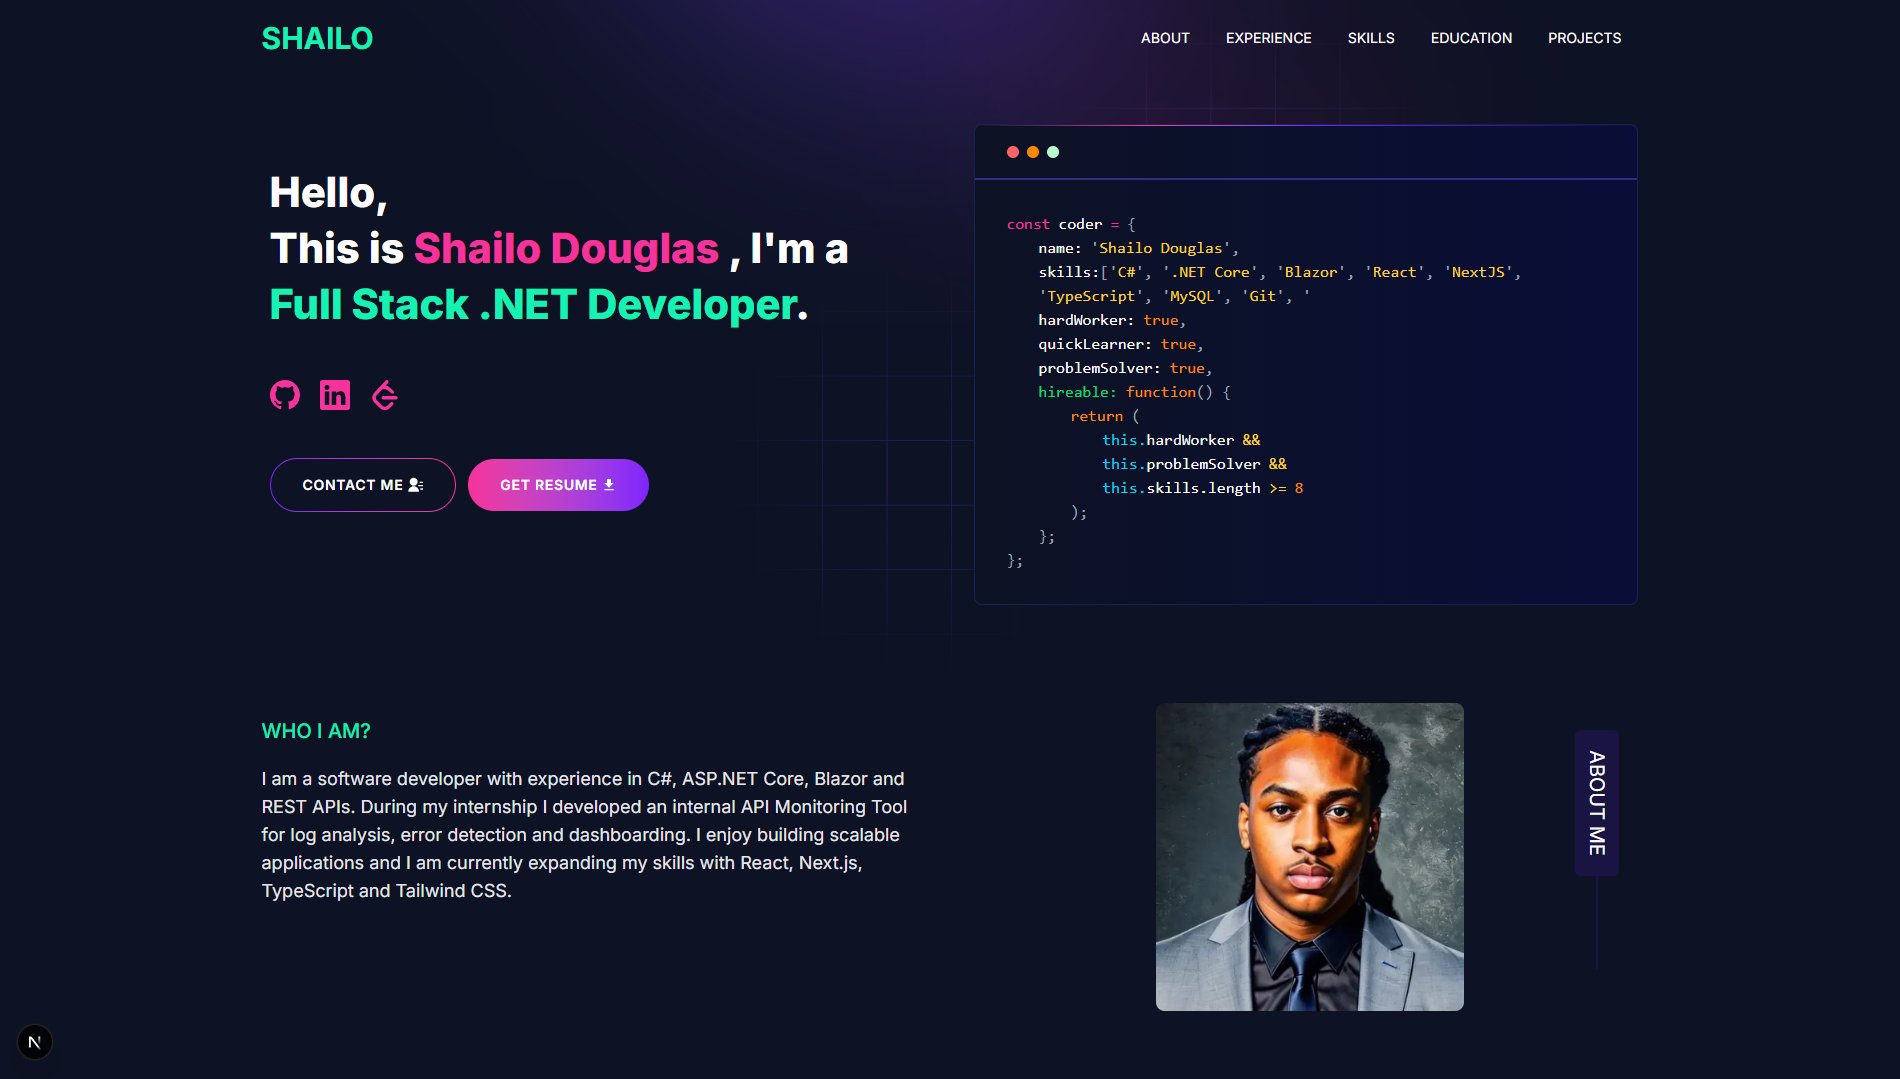
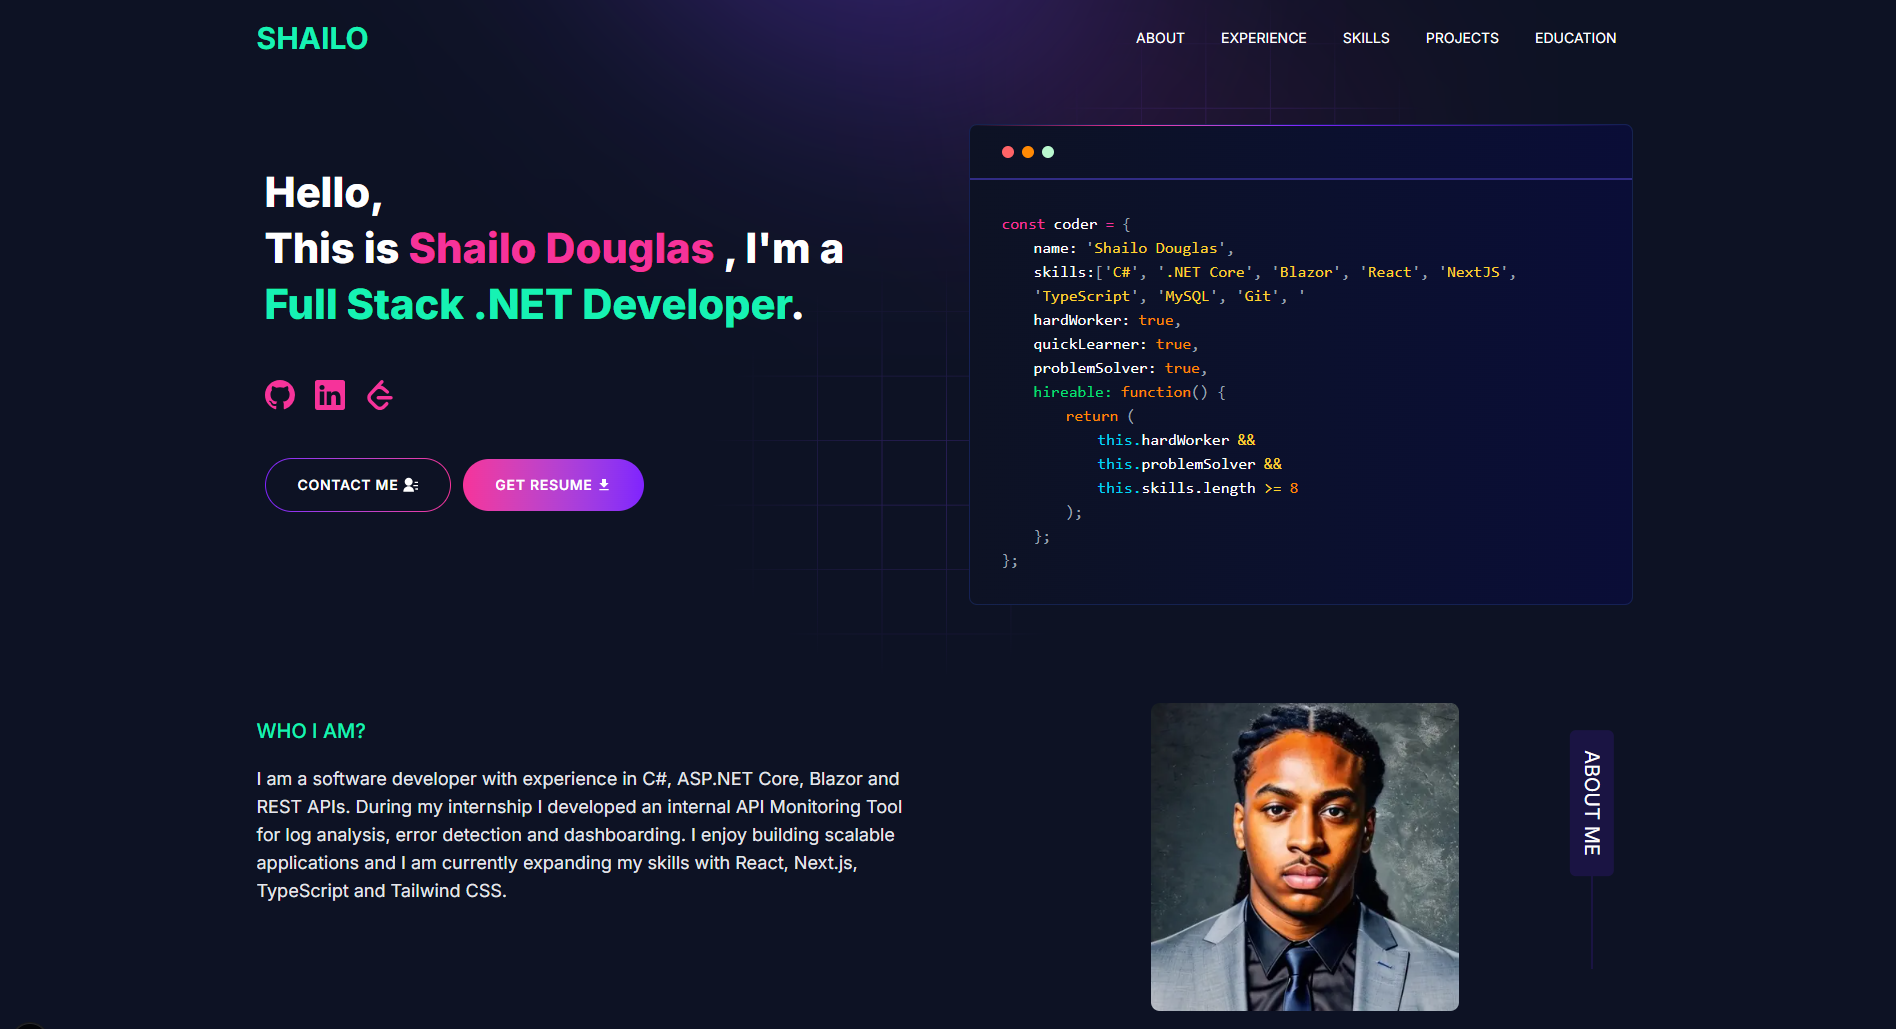
grammar fix educations to education and navbar order change projects an education

diff --git a/app/components/navbar.jsx b/app/components/navbar.jsx
@@ -27,14 +27,15 @@ function Navbar() {
             <Link className="block px-4 py-2 no-underline outline-none hover:no-underline" href="/#skills"><div className="text-sm text-white transition-colors duration-300 hover:text-pink-600">SKILLS</div></Link>
           </li>
           <li>
+            <Link className="block px-4 py-2 no-underline outline-none hover:no-underline" href="/#projects"><div className="text-sm text-white transition-colors duration-300 hover:text-pink-600">PROJECTS</div></Link>
+          </li>
+          <li>
             <Link className="block px-4 py-2 no-underline outline-none hover:no-underline" href="/#education"><div className="text-sm text-white transition-colors duration-300 hover:text-pink-600">EDUCATION</div></Link>
           </li>
           {/* <li>
             <Link className="block px-4 py-2 no-underline outline-none hover:no-underline" href="/blog"><div className="text-sm text-white transition-colors duration-300 hover:text-pink-600">BLOGS</div></Link>
           </li> */}
-          <li>
-            <Link className="block px-4 py-2 no-underline outline-none hover:no-underline" href="/#projects"><div className="text-sm text-white transition-colors duration-300 hover:text-pink-600">PROJECTS</div></Link>
-          </li>
+          
         </ul>
       </div>
     </nav>

diff --git a/app/page.js b/app/page.js
@@ -1,6 +1,4 @@
-import { personalData } from "@/utils/data/personal-data";
 import AboutSection from "./components/homepage/about";
-import Blog from "./components/homepage/blog";
 import ContactSection from "./components/homepage/contact";
 import Education from "./components/homepage/education";
 import Experience from "./components/homepage/experience";
@@ -8,25 +6,9 @@ import HeroSection from "./components/homepage/hero-section";
 import Projects from "./components/homepage/projects";
 import Skills from "./components/homepage/skills";
 
-async function getData() {
-  const res = await fetch(`https://dev.to/api/articles?username=${personalData.devUsername}`)
-
-  if (!res.ok) {
-    throw new Error('Failed to fetch data')
-  }
-
-  const data = await res.json();
-
-  const filtered = data.filter((item) => item?.cover_image).sort(() => Math.random() - 0.5);
-
-  return filtered;
-};
-
-export default async function Home() {
-  const blogs = await getData();
-
+export default function Home() {
   return (
-    <div suppressHydrationWarning >
+    <div suppressHydrationWarning>
       <HeroSection />
       <AboutSection />
       <Experience />
@@ -35,5 +17,5 @@ export default async function Home() {
       <Education />
       <ContactSection />
     </div>
-  )
-};
+  );
+}

diff --git a/app/components/homepage/education/index.jsx b/app/components/homepage/education/index.jsx
@@ -26,7 +26,7 @@ function Education() {
         <div className="flex  items-center">
           <span className="w-24 h-[2px] bg-[#1a1443]"></span>
           <span className="bg-[#1a1443] w-fit text-white p-2 px-5 text-xl rounded-md">
-            Educations
+            Education
           </span>
           <span className="w-24 h-[2px] bg-[#1a1443]"></span>
         </div>
